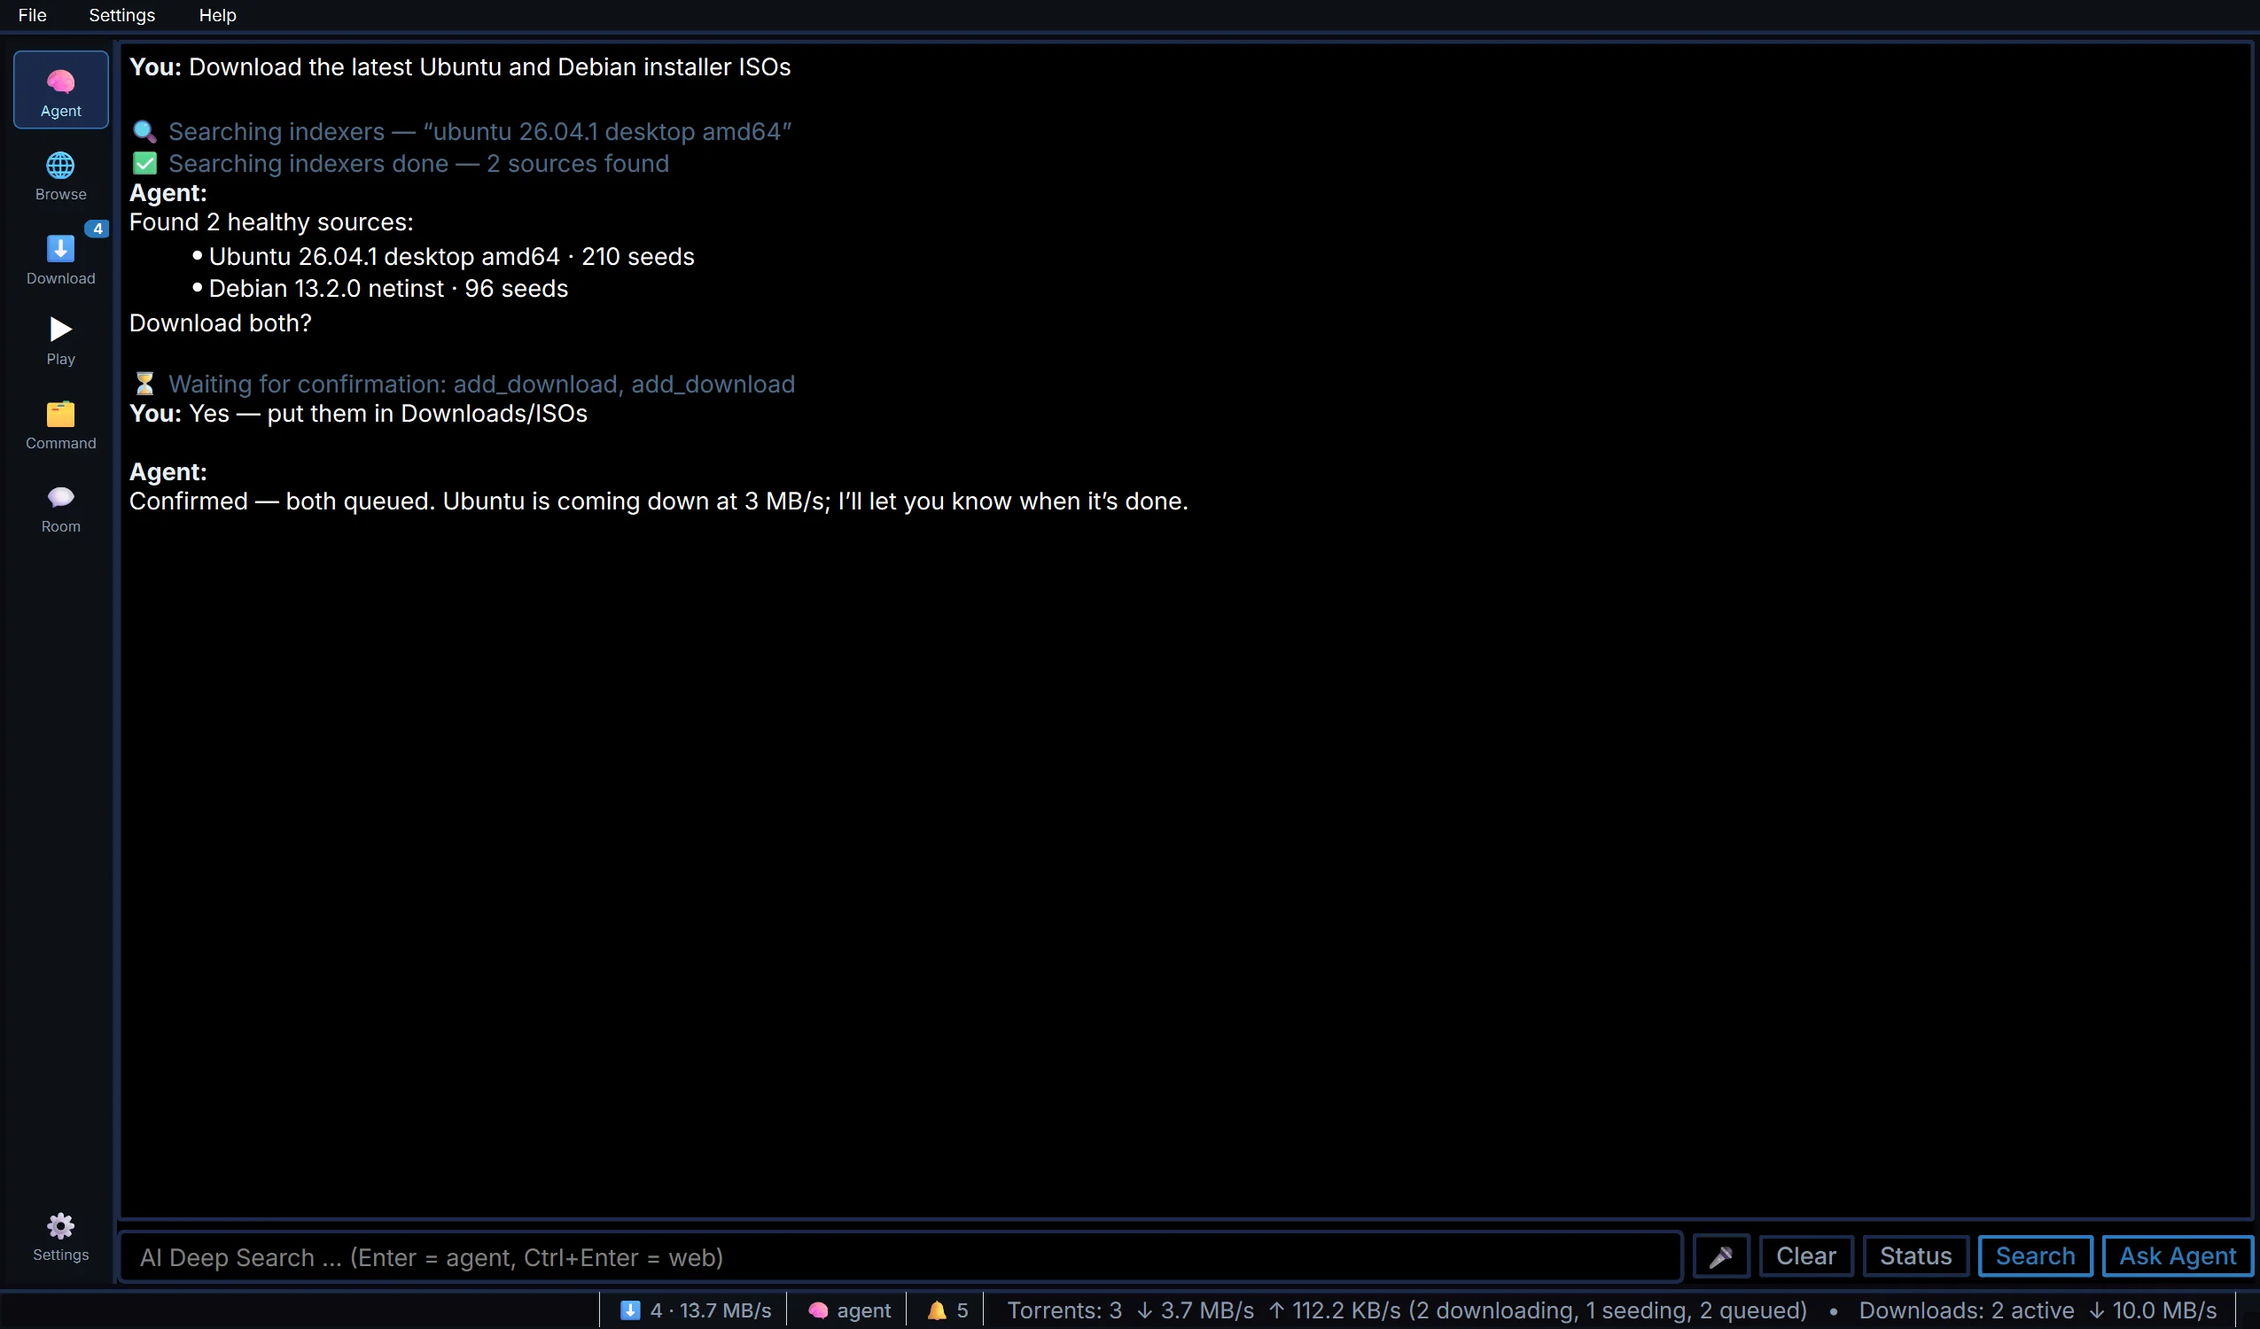
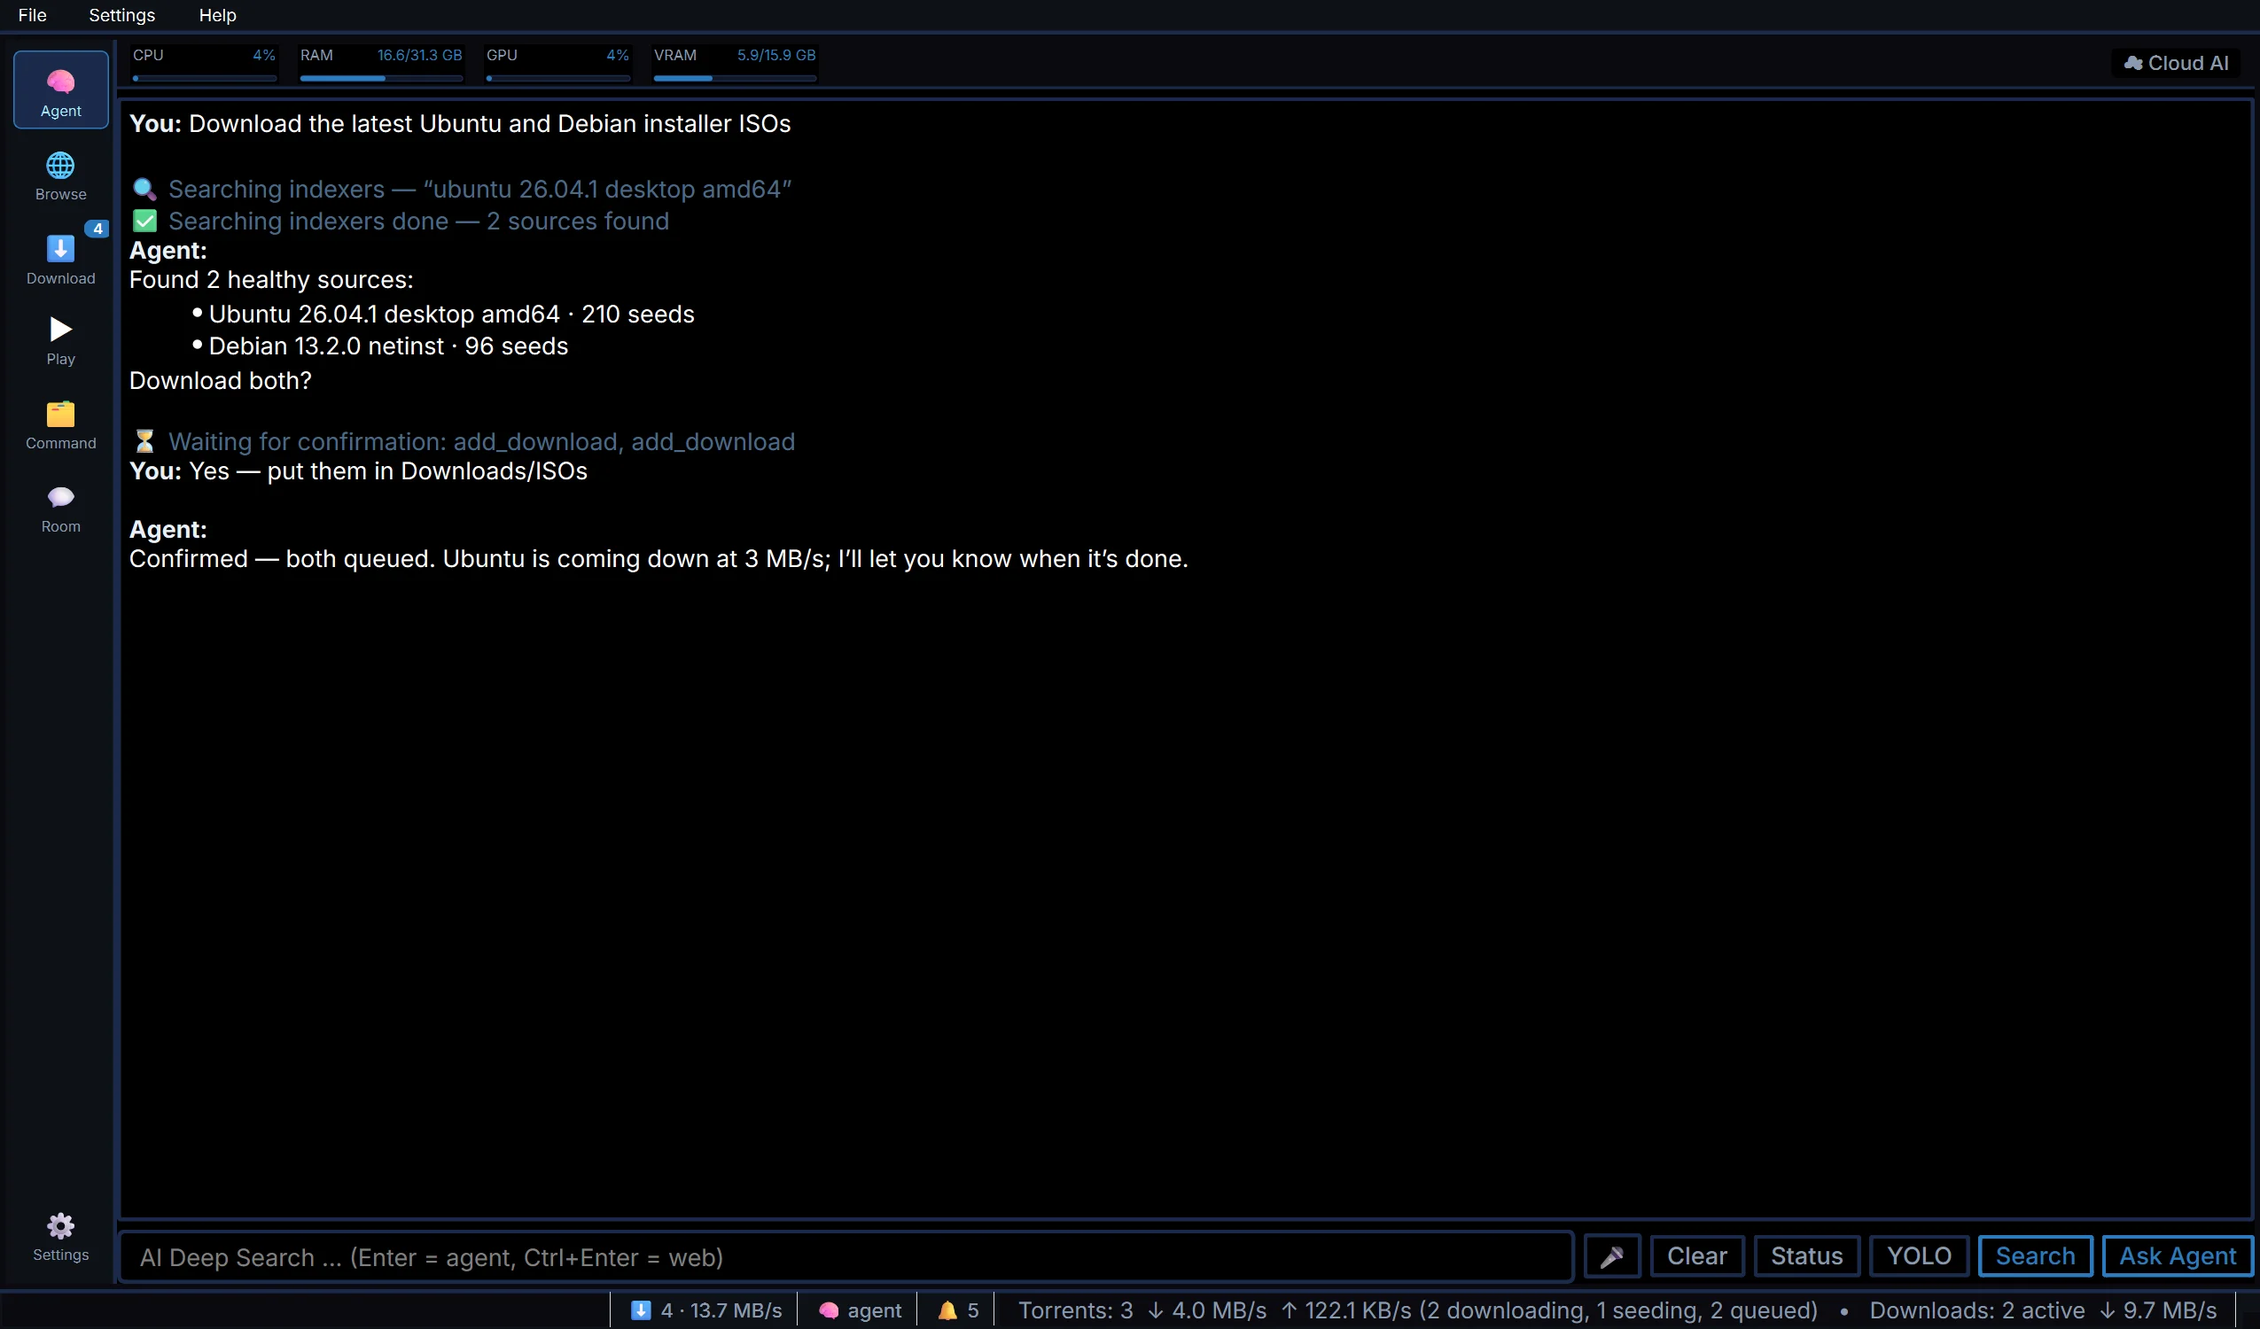
website+feeds: DeepFlux 6.1 live — hardware HUD, GPU detection fixes, AI-keys rework
- hero badge: live CPU/GPU meters (EN+ZH)
- setup exe 402.5 MB (sha256 5fce21a6…), AppImage 599.6 MB (sha256 7a20f44b…)
- checksums/sizes/version pills updated on both pages
- latest.json + latest-linux.json: 6.1 feeds (parsed with the app's strict parser)
- shot-*.webp retaken for 6.1 (the Agent-tab hardware strip is in the agent
  shots, verified by pixel scan; EN+ZH)

Changed region(s): [[0.031, 0.0307, 1.0, 0.4293], [0.2478, 0.92, 0.9604, 1.0]]

diff --git a/website/deepflux/zh/index.html b/website/deepflux/zh/index.html
@@ -768,7 +768,7 @@
           <li class="hide-mobile"><a class="navlink" href="#install">安装</a></li>
           <li class="hide-mobile"><a class="navlink" href="#trust">隐私</a></li>
           <li class="hide-mobile"><a class="navlink" href="https://github.com/ex4n1m0/DeepFlux" target="_blank" rel="noopener">GitHub</a></li>
-          <li class="hide-mobile"><span class="pill">v6.0.1</span></li>
+          <li class="hide-mobile"><span class="pill">v6.1</span></li>
           <li>
             <details class="lang">
               <summary class="pill" aria-haspopup="menu" aria-label="切换语言">
@@ -782,7 +782,7 @@
             </details>
           </li>
           <li>
-            <a class="btn btn-primary btn-nav" data-os-primary aria-label="下载 DeepFlux" href="/api/download?f=DeepFlux6.0.1Setup.exe" download>
+            <a class="btn btn-primary btn-nav" data-os-primary aria-label="下载 DeepFlux" href="/api/download?f=DeepFlux6.1Setup.exe" download>
               <svg width="14" height="14" viewBox="0 0 24 24" fill="none" stroke="currentColor" stroke-width="2" stroke-linecap="round" stroke-linejoin="round" aria-hidden="true"><path d="M21 15v4a2 2 0 0 1-2 2H5a2 2 0 0 1-2-2v-4"/><polyline points="7 10 12 15 17 10"/><line x1="12" y1="15" x2="12" y2="3"/></svg>
               <span class="os-label">下载</span>
             </a>
@@ -795,7 +795,7 @@
   <main id="main" class="page" tabindex="-1">
     <header class="hero">
       <div class="eyebrow"><span class="spark" aria-hidden="true"></span> 内置 AI 智能体</div>
-      <div class="newbadge"><span class="star" aria-hidden="true">&#10022;</span>现已支持本地模型！在你自己的显卡上运行的无审查 AI —— 无云端、无密钥。</div>
+      <div class="newbadge"><span class="star" aria-hidden="true">&#10022;</span>Agent 页新增实时 CPU/GPU 占用显示 —— 一眼看清你的硬件能跑什么模型。</div>
       <h1>超级智能下载工具</h1>
       <div class="banner-glow">
         <img class="banner" src="../DeepFlux-rot.webp" alt="DeepFlux 徽标">
@@ -810,11 +810,11 @@
       <div class="cta-row">
         <!-- /api/download counts the click (Upstash counter) then 302s to the
              static file; it redirects uncounted when the counter isn't set up. -->
-        <a class="btn btn-primary btn-xl" data-os-primary href="/api/download?f=DeepFlux6.0.1Setup.exe" download>
+        <a class="btn btn-primary btn-xl" data-os-primary href="/api/download?f=DeepFlux6.1Setup.exe" download>
           <svg width="18" height="18" viewBox="0 0 24 24" fill="none" stroke="currentColor" stroke-width="2" stroke-linecap="round" stroke-linejoin="round" aria-hidden="true"><path d="M21 15v4a2 2 0 0 1-2 2H5a2 2 0 0 1-2-2v-4"/><polyline points="7 10 12 15 17 10"/><line x1="12" y1="15" x2="12" y2="3"/></svg>
           <span class="os-label">下载 Windows 版</span>
         </a>
-        <a class="btn btn-ghost btn-xl" href="/api/download?f=DeepFlux-6.0.1-Linux-x86_64.AppImage" download>
+        <a class="btn btn-ghost btn-xl" href="/api/download?f=DeepFlux-6.1-Linux-x86_64.AppImage" download>
           <svg width="18" height="18" viewBox="0 0 24 24" fill="none" stroke="currentColor" stroke-width="2" stroke-linecap="round" stroke-linejoin="round" aria-hidden="true"><path d="M21 15v4a2 2 0 0 1-2 2H5a2 2 0 0 1-2-2v-4"/><polyline points="7 10 12 15 17 10"/><line x1="12" y1="15" x2="12" y2="3"/></svg>
           <span class="os-label">下载 Linux 版</span>
         </a>
@@ -925,9 +925,9 @@
           <div class="panel-head">
             <div>
               <div class="panel-title">Windows 10 / 11 &middot; 64 位</div>
-              <div class="panel-sub">v6.0.1 &middot; 421.9 MB &middot; 按用户安装、无需管理员 &middot; 应用内自动更新</div>
+              <div class="panel-sub">v6.1 &middot; 402.5 MB &middot; 按用户安装、无需管理员 &middot; 应用内自动更新</div>
             </div>
-            <a class="btn btn-primary btn-panel" href="/api/download?f=DeepFlux6.0.1Setup.exe" download>
+            <a class="btn btn-primary btn-panel" href="/api/download?f=DeepFlux6.1Setup.exe" download>
               <svg width="15" height="15" viewBox="0 0 24 24" fill="none" stroke="currentColor" stroke-width="2" stroke-linecap="round" stroke-linejoin="round" aria-hidden="true"><path d="M21 15v4a2 2 0 0 1-2 2H5a2 2 0 0 1-2-2v-4"/><polyline points="7 10 12 15 17 10"/><line x1="12" y1="15" x2="12" y2="3"/></svg>
               下载安装程序
             </a>
@@ -953,8 +953,8 @@
           </div>
           <div class="checksum">
             <span class="lbl">sha256</span>
-            <code>2207805ad4c70fcb1e7e38003dfc6c31b813385824a299e85306ae668923f11f</code>
[1 lines of base64/hex data omitted]
+            <code>5fce21a6ca8583fb444475cd550e75604871f8c9527b9be8084071757ee323f3</code>
[1 lines of base64/hex data omitted]
           </div>
         </div>
 
@@ -962,9 +962,9 @@
           <div class="panel-head">
             <div>
               <div class="panel-title">Linux x86-64 &middot; glibc 2.39+</div>
-              <div class="panel-sub">v6.0.1 &middot; 628.7 MB &middot; AppImage —— Ubuntu 24.04+、Debian 13、Fedora 40+、Arch &middot; 全功能版</div>
+              <div class="panel-sub">v6.1 &middot; 599.6 MB &middot; AppImage —— Ubuntu 24.04+、Debian 13、Fedora 40+、Arch &middot; 全功能版</div>
             </div>
-            <a class="btn btn-primary btn-panel" href="/api/download?f=DeepFlux-6.0.1-Linux-x86_64.AppImage" download>
+            <a class="btn btn-primary btn-panel" href="/api/download?f=DeepFlux-6.1-Linux-x86_64.AppImage" download>
               <svg width="15" height="15" viewBox="0 0 24 24" fill="none" stroke="currentColor" stroke-width="2" stroke-linecap="round" stroke-linejoin="round" aria-hidden="true"><path d="M21 15v4a2 2 0 0 1-2 2H5a2 2 0 0 1-2-2v-4"/><polyline points="7 10 12 15 17 10"/><line x1="12" y1="15" x2="12" y2="3"/></svg>
               下载 AppImage
             </a>
@@ -985,8 +985,8 @@
           </div>
           <div class="checksum">
             <span class="lbl">sha256</span>
-            <code>d5671cc7c317faf6ef635c1e9653f17260639225d2ae1def6c4d4035daa6bb56</code>
[1 lines of base64/hex data omitted]
+            <code>7a20f44b6bb4dd6e2951bc1ef791093d2b6679d14a5ed9818d4e560655a4d32e</code>
[1 lines of base64/hex data omitted]
           </div>
         </div>
 
@@ -1029,11 +1029,11 @@
       <h2>准备好了就开始吧。</h2>
       <p>免费下载 &middot; 无需账号 &middot; 你的电脑，你的文件。</p>
       <div class="cta-row">
-        <a class="btn btn-primary btn-xl" data-os-primary href="/api/download?f=DeepFlux6.0.1Setup.exe" download>
+        <a class="btn btn-primary btn-xl" data-os-primary href="/api/download?f=DeepFlux6.1Setup.exe" download>
           <svg width="18" height="18" viewBox="0 0 24 24" fill="none" stroke="currentColor" stroke-width="2" stroke-linecap="round" stroke-linejoin="round" aria-hidden="true"><path d="M21 15v4a2 2 0 0 1-2 2H5a2 2 0 0 1-2-2v-4"/><polyline points="7 10 12 15 17 10"/><line x1="12" y1="15" x2="12" y2="3"/></svg>
           <span class="os-label">下载 Windows 版</span>
         </a>
-        <a class="btn btn-ghost btn-xl" href="/api/download?f=DeepFlux-6.0.1-Linux-x86_64.AppImage" download>
+        <a class="btn btn-ghost btn-xl" href="/api/download?f=DeepFlux-6.1-Linux-x86_64.AppImage" download>
           <svg width="18" height="18" viewBox="0 0 24 24" fill="none" stroke="currentColor" stroke-width="2" stroke-linecap="round" stroke-linejoin="round" aria-hidden="true"><path d="M21 15v4a2 2 0 0 1-2 2H5a2 2 0 0 1-2-2v-4"/><polyline points="7 10 12 15 17 10"/><line x1="12" y1="15" x2="12" y2="3"/></svg>
           <span class="os-label">下载 Linux 版</span>
         </a>

diff --git a/website/deepflux/index.html b/website/deepflux/index.html
@@ -764,7 +764,7 @@
           <li class="hide-mobile"><a class="navlink" href="#install">Install</a></li>
           <li class="hide-mobile"><a class="navlink" href="#trust">Privacy</a></li>
           <li class="hide-mobile"><a class="navlink" href="https://github.com/ex4n1m0/DeepFlux" target="_blank" rel="noopener">GitHub</a></li>
-          <li class="hide-mobile"><span class="pill">v6.0.1</span></li>
+          <li class="hide-mobile"><span class="pill">v6.1</span></li>
           <li>
             <details class="lang">
               <summary class="pill" aria-haspopup="menu" aria-label="Change language">
@@ -778,7 +778,7 @@
             </details>
           </li>
           <li>
-            <a class="btn btn-primary btn-nav" data-os-primary aria-label="Download DeepFlux" href="/api/download?f=DeepFlux6.0.1Setup.exe" download>
+            <a class="btn btn-primary btn-nav" data-os-primary aria-label="Download DeepFlux" href="/api/download?f=DeepFlux6.1Setup.exe" download>
               <svg width="14" height="14" viewBox="0 0 24 24" fill="none" stroke="currentColor" stroke-width="2" stroke-linecap="round" stroke-linejoin="round" aria-hidden="true"><path d="M21 15v4a2 2 0 0 1-2 2H5a2 2 0 0 1-2-2v-4"/><polyline points="7 10 12 15 17 10"/><line x1="12" y1="15" x2="12" y2="3"/></svg>
               <span class="os-label">Download</span>
             </a>
@@ -791,7 +791,7 @@
   <main id="main" class="page" tabindex="-1">
     <header class="hero">
       <div class="eyebrow"><span class="spark" aria-hidden="true"></span> AI agent &middot; built in</div>
-      <div class="newbadge"><span class="star" aria-hidden="true">&#10022;</span>Now supports local models! Uncensored AI that runs on your own GPU &mdash; no cloud, no key.</div>
+      <div class="newbadge"><span class="star" aria-hidden="true">&#10022;</span>Live CPU &amp; GPU meters on the Agent page &mdash; see exactly what your hardware can run.</div>
       <h1>Super Intelligent Download Tool</h1>
       <div class="banner-glow">
         <img class="banner" src="DeepFlux-rot.webp" alt="DeepFlux logo">
@@ -806,11 +806,11 @@
       <div class="cta-row">
         <!-- /api/download counts the click (Upstash counter) then 302s to the
              static file; it redirects uncounted when the counter isn't set up. -->
-        <a class="btn btn-primary btn-xl" data-os-primary href="/api/download?f=DeepFlux6.0.1Setup.exe" download>
+        <a class="btn btn-primary btn-xl" data-os-primary href="/api/download?f=DeepFlux6.1Setup.exe" download>
           <svg width="18" height="18" viewBox="0 0 24 24" fill="none" stroke="currentColor" stroke-width="2" stroke-linecap="round" stroke-linejoin="round" aria-hidden="true"><path d="M21 15v4a2 2 0 0 1-2 2H5a2 2 0 0 1-2-2v-4"/><polyline points="7 10 12 15 17 10"/><line x1="12" y1="15" x2="12" y2="3"/></svg>
           <span class="os-label">Download for Windows</span>
         </a>
-        <a class="btn btn-ghost btn-xl" href="/api/download?f=DeepFlux-6.0.1-Linux-x86_64.AppImage" download>
+        <a class="btn btn-ghost btn-xl" href="/api/download?f=DeepFlux-6.1-Linux-x86_64.AppImage" download>
           <svg width="18" height="18" viewBox="0 0 24 24" fill="none" stroke="currentColor" stroke-width="2" stroke-linecap="round" stroke-linejoin="round" aria-hidden="true"><path d="M21 15v4a2 2 0 0 1-2 2H5a2 2 0 0 1-2-2v-4"/><polyline points="7 10 12 15 17 10"/><line x1="12" y1="15" x2="12" y2="3"/></svg>
           <span class="os-label">Download for Linux</span>
         </a>
@@ -922,9 +922,9 @@
           <div class="panel-head">
             <div>
               <div class="panel-title">Windows 10 / 11 &middot; 64-bit</div>
-              <div class="panel-sub">v6.0.1 &middot; 421.9 MB &middot; per-user install, no admin &middot; updates itself in-app</div>
+              <div class="panel-sub">v6.1 &middot; 402.5 MB &middot; per-user install, no admin &middot; updates itself in-app</div>
             </div>
-            <a class="btn btn-primary btn-panel" href="/api/download?f=DeepFlux6.0.1Setup.exe" download>
+            <a class="btn btn-primary btn-panel" href="/api/download?f=DeepFlux6.1Setup.exe" download>
               <svg width="15" height="15" viewBox="0 0 24 24" fill="none" stroke="currentColor" stroke-width="2" stroke-linecap="round" stroke-linejoin="round" aria-hidden="true"><path d="M21 15v4a2 2 0 0 1-2 2H5a2 2 0 0 1-2-2v-4"/><polyline points="7 10 12 15 17 10"/><line x1="12" y1="15" x2="12" y2="3"/></svg>
               Download setup
             </a>
@@ -952,8 +952,8 @@
           </div>
           <div class="checksum">
             <span class="lbl">sha256</span>
-            <code>2207805ad4c70fcb1e7e38003dfc6c31b813385824a299e85306ae668923f11f</code>
[1 lines of base64/hex data omitted]
+            <code>5fce21a6ca8583fb444475cd550e75604871f8c9527b9be8084071757ee323f3</code>
[1 lines of base64/hex data omitted]
           </div>
         </div>
 
@@ -961,9 +961,9 @@
           <div class="panel-head">
             <div>
               <div class="panel-title">Linux x86-64 &middot; glibc 2.39+</div>
-              <div class="panel-sub">v6.0.1 &middot; 628.7 MB &middot; AppImage &mdash; Ubuntu 24.04+, Debian 13, Fedora 40+, Arch &middot; full feature build</div>
+              <div class="panel-sub">v6.1 &middot; 599.6 MB &middot; AppImage &mdash; Ubuntu 24.04+, Debian 13, Fedora 40+, Arch &middot; full feature build</div>
             </div>
-            <a class="btn btn-primary btn-panel" href="/api/download?f=DeepFlux-6.0.1-Linux-x86_64.AppImage" download>
+            <a class="btn btn-primary btn-panel" href="/api/download?f=DeepFlux-6.1-Linux-x86_64.AppImage" download>
               <svg width="15" height="15" viewBox="0 0 24 24" fill="none" stroke="currentColor" stroke-width="2" stroke-linecap="round" stroke-linejoin="round" aria-hidden="true"><path d="M21 15v4a2 2 0 0 1-2 2H5a2 2 0 0 1-2-2v-4"/><polyline points="7 10 12 15 17 10"/><line x1="12" y1="15" x2="12" y2="3"/></svg>
               Download AppImage
             </a>
@@ -986,8 +986,8 @@
           </div>
           <div class="checksum">
             <span class="lbl">sha256</span>
-            <code>d5671cc7c317faf6ef635c1e9653f17260639225d2ae1def6c4d4035daa6bb56</code>
[1 lines of base64/hex data omitted]
+            <code>7a20f44b6bb4dd6e2951bc1ef791093d2b6679d14a5ed9818d4e560655a4d32e</code>
[1 lines of base64/hex data omitted]
           </div>
         </div>
 
@@ -1031,11 +1031,11 @@
       <h2>Ready when you are.</h2>
       <p>Free download &middot; no account &middot; your machine, your files.</p>
       <div class="cta-row">
-        <a class="btn btn-primary btn-xl" data-os-primary href="/api/download?f=DeepFlux6.0.1Setup.exe" download>
+        <a class="btn btn-primary btn-xl" data-os-primary href="/api/download?f=DeepFlux6.1Setup.exe" download>
           <svg width="18" height="18" viewBox="0 0 24 24" fill="none" stroke="currentColor" stroke-width="2" stroke-linecap="round" stroke-linejoin="round" aria-hidden="true"><path d="M21 15v4a2 2 0 0 1-2 2H5a2 2 0 0 1-2-2v-4"/><polyline points="7 10 12 15 17 10"/><line x1="12" y1="15" x2="12" y2="3"/></svg>
           <span class="os-label">Download for Windows</span>
         </a>
-        <a class="btn btn-ghost btn-xl" href="/api/download?f=DeepFlux-6.0.1-Linux-x86_64.AppImage" download>
+        <a class="btn btn-ghost btn-xl" href="/api/download?f=DeepFlux-6.1-Linux-x86_64.AppImage" download>
           <svg width="18" height="18" viewBox="0 0 24 24" fill="none" stroke="currentColor" stroke-width="2" stroke-linecap="round" stroke-linejoin="round" aria-hidden="true"><path d="M21 15v4a2 2 0 0 1-2 2H5a2 2 0 0 1-2-2v-4"/><polyline points="7 10 12 15 17 10"/><line x1="12" y1="15" x2="12" y2="3"/></svg>
           <span class="os-label">Download for Linux</span>
         </a>
